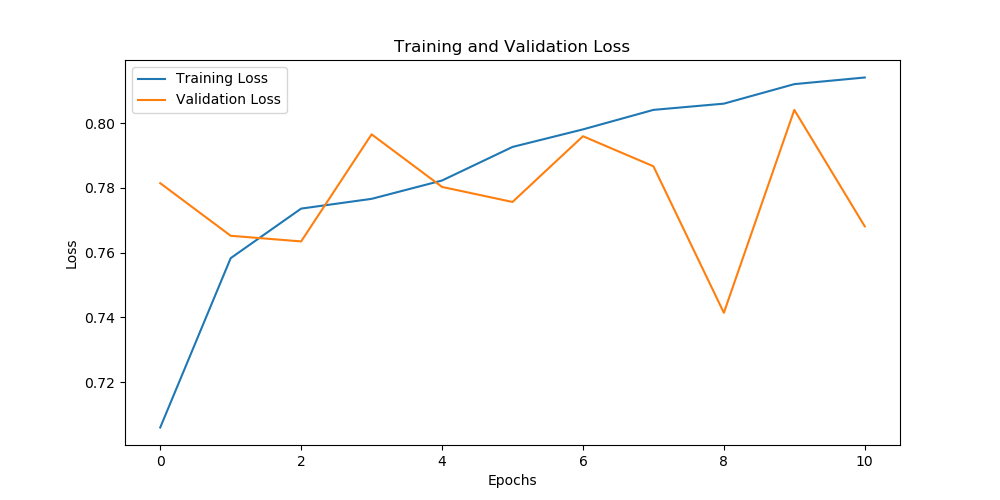
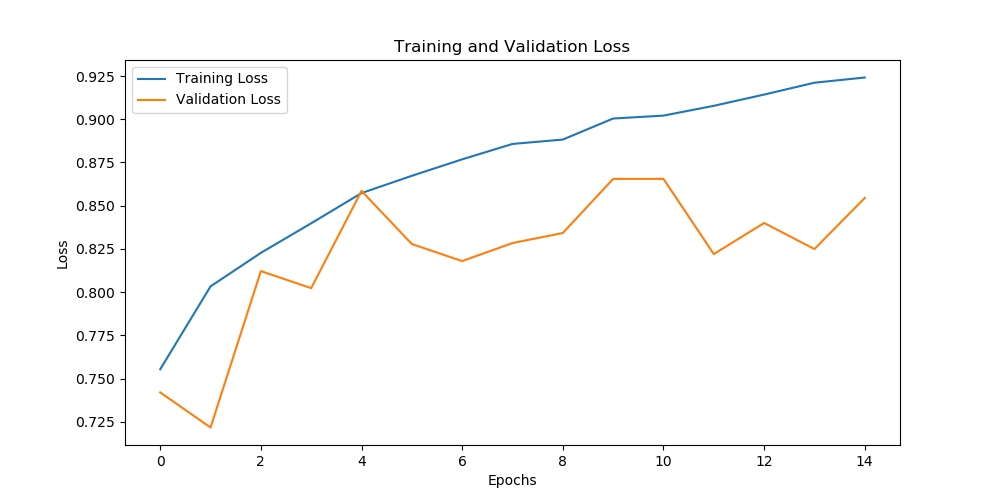
add other schedulers

diff --git a/clip_fully_supervised.py b/clip_fully_supervised.py
@@ -22,6 +22,7 @@ from datetime import datetime
 from torch.nn.parallel import DataParallel
 import random
 from sklearn.decomposition import PCA
+from torch.optim.lr_scheduler import CosineAnnealingWarmRestarts,  ReduceLROnPlateau
 
 # Define device
 if torch.cuda.is_available():
@@ -178,11 +179,15 @@ if device == "cpu":
   model.float()
 
 #Define number of epochs
-num_epochs = 25
+num_epochs = 10
 
 # Prepare the optimizer - the lr, betas, eps and weight decay are from the CLIP paper
-optimizer = torch.optim.Adam(model.parameters(), lr=1e-5,betas=(0.9,0.98),eps=1e-6,weight_decay=0.2)
-scheduler = optim.lr_scheduler.CosineAnnealingLR(optimizer, len(train_dataloader)*num_epochs)
+optimizer = torch.optim.Adam(model.parameters(), lr=0.0001,betas=(0.9,0.98),eps=1e-6,weight_decay=0.2)
+#optimizer = torch.optim.Adam(model.parameters(), lr=1e-5,betas=(0.9,0.98),eps=1e-6,weight_decay=0.2)
+#scheduler = optim.lr_scheduler.CosineAnnealingLR(optimizer, len(train_dataloader)*num_epochs)
+#scheduler = CosineAnnealingWarmRestarts(optimizer, T_0=10, T_mult=2)
+scheduler = ReduceLROnPlateau(optimizer, mode='min', factor=0.1, patience=10, verbose=True)
+
 
 # Specify the loss functions - for images and for texts
 loss_img = nn.CrossEntropyLoss()
@@ -191,7 +196,7 @@ loss_txt = nn.CrossEntropyLoss()
 best_te_loss = 1e5
 best_ep = -1
 early_stopping_counter = 0
-early_stopping_patience = 25
+early_stopping_patience = 30
 early_stopping_threshold = 0.03
 train_accuracies = []
 val_accuracies = []
@@ -247,7 +252,7 @@ for epoch in range(num_epochs):
         value, index = similarity.topk(1)
 
         correct = (index == ground_truth).sum().item()
-        total = labels.size(0)
+        total = len(labels)
         epoch_train_correct += correct
         epoch_train_total += total
         
@@ -319,7 +324,7 @@ for epoch in range(num_epochs):
                 te_loss += total_loss.item()
 
                 correct = (index == ground_truth).sum().item()
-                total = labels.size(0)
+                total = len(labels)
                 epoch_val_correct += correct
                 epoch_val_total += total
 
@@ -351,6 +356,9 @@ for epoch in range(num_epochs):
         val_accuracy = epoch_val_correct / epoch_val_total
         val_losses.append(te_loss)
         val_accuracies.append(val_accuracy)
+
+    #call the scheduler in case of reduceonplato
+    scheduler.step(te_loss)
 
     # Convert lists of arrays to numpy arrays
     all_labels_array = np.concatenate(all_labels)
@@ -386,7 +394,7 @@ for epoch in range(num_epochs):
     if te_loss < best_te_loss:
         best_te_loss = te_loss
         best_ep = epoch
-        torch.save(model.state_dict(), "../fs_best_model.pt")
+        torch.save(model.state_dict(), "../fs_best_model_reduceplato.pt")
         early_stopping_counter = 0
     else:
         early_stopping_counter += 1
@@ -395,11 +403,11 @@ for epoch in range(num_epochs):
 
     if (early_stopping_counter >= early_stopping_patience) or (best_te_loss<=early_stopping_threshold):
         print(f"Early stopping after {epoch + 1} epochs.")
-        torch.save(model.state_dict(), "../fs_last_model.pt")
+        torch.save(model.state_dict(), "../fs_last_model_reduceplato.pt")
         break
 
 print(f"best epoch {best_ep+1}, best te_loss {best_te_loss}")
-torch.save(model.state_dict(), "../fs_last_model.pt")
+torch.save(model.state_dict(), "../fs_last_model_reduceplato.pt")
 
 print('Start testing...')
 
@@ -578,7 +586,7 @@ def get_features(dataloader):
 
     return torch.cat(all_features).cpu().numpy(), torch.cat(all_labels).cpu().numpy()
 
-#test_features, test_labels = get_features(test_dataloader)
+test_features, test_labels = get_features(test_dataloader)
 #print('Test features created')
 
 def visualize_features(features, labels, title):
@@ -588,7 +596,7 @@ def visualize_features(features, labels, title):
     plt.scatter(reduced_features[:, 0], reduced_features[:, 1], c=labels, cmap='viridis', alpha=0.5)
     plt.colorbar()
     plt.title(title)
-    plt.savefig('clip_fullysupervised_features.png')
+    plt.savefig('clip_fullysupervised_features_reduceplato.png')
     plt.close()
 
-#visualize_features(test_features, test_labels, 'Test Features')
+visualize_features(test_features, test_labels, 'Test Features')

diff --git a/cnn_rnn.py b/cnn_rnn.py
@@ -23,6 +23,8 @@ import matplotlib.pyplot as plt
 from datetime import datetime
 from torch.nn.parallel import DataParallel
 from torchvision.io import read_video
+from torch.optim.lr_scheduler import ReduceLROnPlateau
+
 
 
 # Define device
@@ -209,9 +211,10 @@ num_epochs = 50
 #optimizer: first trainings:
 #optimizer = torch.optim.Adam(model.parameters(), lr=5e-4,betas=(0.9,0.98),eps=1e-6,weight_decay=1e-6)
 #optimizer: second trainings:
-optimizer = torch.optim.Adam(model.parameters(), lr=0.001)
+optimizer = torch.optim.Adam(model.parameters(), lr=0.0005)
 loss = nn.CrossEntropyLoss()
-scheduler = optim.lr_scheduler.CosineAnnealingLR(optimizer, len(train_dataloader)*num_epochs)
+scheduler = ReduceLROnPlateau(optimizer, mode='min', factor=0.1, patience=5, verbose=True)
+#scheduler = optim.lr_scheduler.CosineAnnealingLR(optimizer, len(train_dataloader)*num_epochs)
 
 
 best_te_loss = 1e5
@@ -256,7 +259,7 @@ for epoch in range(num_epochs):
         optimizer.zero_grad()
         batch_loss.backward()
         optimizer.step()
-        scheduler.step()
+        #scheduler.step()
         pbar.set_description(f"Epoch {epoch}/{num_epochs}, Loss: {batch_loss.item():.4f}, Current Learning rate: {optimizer.param_groups[0]['lr']}")
     tr_loss /= step
     train_accuracy = epoch_train_correct / epoch_train_total
@@ -308,6 +311,8 @@ for epoch in range(num_epochs):
         val_losses.append(te_loss)
         val_accuracies.append(val_accuracy)
         train_losses.append(te_loss)
+    
+    scheduler.step(te_loss)
 
     # Calculate confusion matrix
     conf_matrix = confusion_matrix(all_labels, all_preds)
@@ -408,16 +413,16 @@ plt.xlabel('Epochs')
 plt.ylabel('Accuracy')
 plt.legend()
 plt.title('Training and Validation Accuracy')
-plt.savefig('training_validation_accuracy_cnn.png')
+plt.savefig('training_validation_accuracy_cnn_reducelr.png')
 plt.close()
 
 # Plot the training and validation loss
 plt.figure(figsize=(10, 5))
-plt.plot(train_accuracies, label='Training Loss')
-plt.plot(val_accuracies, label='Validation Loss')
+plt.plot(train_losses, label='Training Loss')
+plt.plot(val_losses, label='Validation Loss')
 plt.xlabel('Epochs')
 plt.ylabel('Loss')
 plt.legend()
 plt.title('Training and Validation Loss')
-plt.savefig('training_validation_loss_cnn.png')
+plt.savefig('training_validation_loss_cnn_reducelr.png')
 plt.close()

diff --git a/clip_linear_gridsearch.py b/clip_linear_gridsearch.py
@@ -35,7 +35,7 @@ print('Used device: ', device)
 model, preprocess = clip.load('ViT-B/16', device, jit=False)
 
 #state_dict = torch.load('../clip_fully_supervised/fs_best_model_11e_4p.pt', map_location=device)
-state_dict = torch.load('../clip_fully_supervised/fs_last_model_8e_5p.pt', map_location=device)
+state_dict = torch.load('../fs_best_model.pt', map_location=device)
 model.load_state_dict(state_dict)
 
 # Load the dataset
@@ -209,7 +209,7 @@ def visualize_features(features, labels, title):
     plt.scatter(reduced_features[:, 0], reduced_features[:, 1], c=labels, cmap='viridis', alpha=0.5)
     plt.colorbar()
     plt.title(title)
-    plt.savefig('11e_4p_best_features_examples.png')
+    plt.savefig('1e_5p_best_features_examples.png')
     plt.close()
 
 visualize_features(test_features, test_labels, 'Test Features')

diff --git a/clip_linear.py b/clip_linear.py
@@ -33,7 +33,7 @@ print('Used device: ', device)
 #Load CLIP model - ViT B32
 model, preprocess = clip.load('ViT-B/16', device, jit=False)
 
-state_dict = torch.load('../fs_best_model.pt', map_location=device)
+state_dict = torch.load('../fs_best_model_30.pt', map_location=device)
 model.load_state_dict(state_dict)
 
 # Load the dataset
@@ -189,7 +189,7 @@ def visualize_features(features, labels, title):
     plt.scatter(reduced_features[:, 0], reduced_features[:, 1], c=labels, cmap='viridis', alpha=0.5)
     plt.colorbar()
     plt.title(title)
-    plt.savefig('clip_features_linear.png')
+    plt.savefig('clip_features_linear_30e_5p_best_model.png')
     plt.close()
 
 visualize_features(test_features, test_labels, 'Test Features')

diff --git a/testing_cnn.py b/testing_cnn.py
@@ -93,9 +93,9 @@ class MobileNetV3Small_RNN(nn.Module):
 model = MobileNetV3Small_RNN(num_classes=2, rnn_type="LSTM")
 model = model.to(device)
 state_dict = torch.load('../cnn_rnn/light_cnn_last_model_lstm_13e.pt', map_location=device)
-print("Pretrained Dict Keys:")
+'''print("Pretrained Dict Keys:")
 for key in state_dict.keys():
-    print(key)
+    print(key)'''
 #state_dict = torch.load('../cnn_rnn/light_cnn_last_model_gru_11e.pt', map_location=device)
 state_dict = {k.partition('module.')[2] if k.startswith('module.') else k: v for k, v in state_dict.items()}
 
